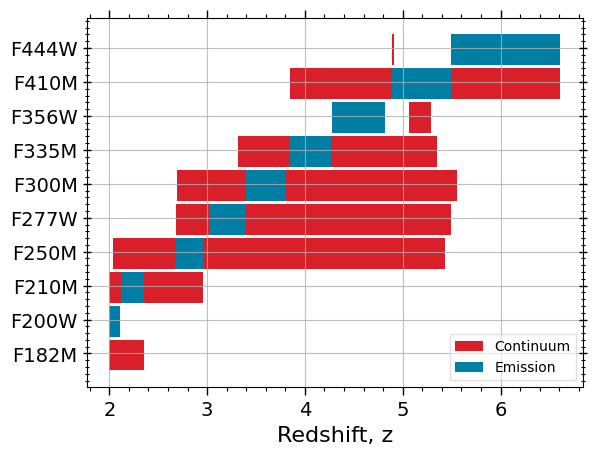
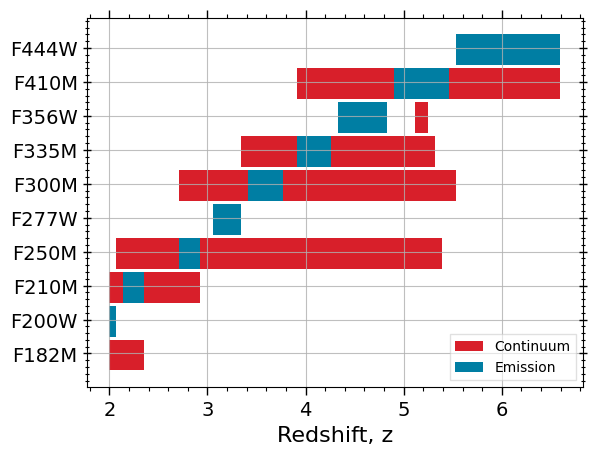
Sped up load_SED_rest_properties and get_depth_dirs to make once and then load rather than remaking every call

diff --git a/galfind/Data.py b/galfind/Data.py
@@ -492,11 +492,9 @@ class Data:
         except:
             pass
         try:
-            ##breakpoint()
             depths = []
             for aper_diam in json.loads(config.get("SExtractor", "APERTURE_DIAMS")) * u.arcsec:
                 depths.append(self.load_depths(aper_diam))
-            ##breakpoint()
             output_str += f"DEPTHS = {str(depths)}\n"
         except:
             pass
@@ -626,7 +624,7 @@ class Data:
             return wht
 
       
-    def load_rms_err(self, band):
+    def load_rms_err(self, band, output_hdr = False):
         try:
             hdu = fits.open(self.rms_err_paths[band])[self.rms_err_exts[band]]
             rms_err = hdu.data 
@@ -1860,10 +1858,9 @@ class Data:
                 #breakpoint()
                 galfind_logger.info(f"Making local depth columns for {band=}")
                 for j, aper_diam in enumerate(json.loads(config.get("SExtractor", "APERTURE_DIAMS")) * u.arcsec):
-                    #breakpoint()
-                    self.get_depth_dir(aper_diam)
                     #print(band, aper_diam)
-                    h5_path = f"{self.depth_dirs[band]}/{depth_mode}/{band}.h5"
+                    self.load_depth_dirs(aper_diam)
+                    h5_path = f"{self.depth_dirs[aper_diam][band]}/{depth_mode}/{band}.h5"
                     if Path(h5_path).is_file():
                         # open depth .h5
                         hf = h5py.File(h5_path, "r")
@@ -1925,20 +1922,22 @@ class Data:
             # overwrite original catalogue with local depth columns
             cat.write(self.sex_cat_master_path, overwrite = True)
             funcs.change_file_permissions(self.sex_cat_master_path)
-        
-    def get_depth_dir(self, aper_diam):
-        self.depth_dirs = {}
-        for band in self.im_paths.keys():
-            self.depth_dirs[band] = f"{config['Depths']['DEPTH_DIR']}/{self.instrument.instrument_from_band(band).name}/{self.version}/{self.survey}/{format(aper_diam.value, '.2f')}as"
-            funcs.make_dirs(f"{self.depth_dirs[band]}/_")
-        return self.depth_dirs
+    
+    def load_depth_dirs(self, aper_diam):
+        if not hasattr(self, "depth_dirs"):
+            self.depth_dirs = {}
+        if not aper_diam in self.depth_dirs.keys():
+            self.depth_dirs[aper_diam] = {}
+            for band in self.im_paths.keys():
+                self.depth_dirs[aper_diam][band] = f"{config['Depths']['DEPTH_DIR']}/{self.instrument.instrument_from_band(band).name}/{self.version}/{self.survey}/{format(aper_diam.value, '.2f')}as"
+                funcs.make_dirs(f"{self.depth_dirs[aper_diam][band]}/_")
             
     def load_depths(self, aper_diam):
-        self.get_depth_dir(aper_diam)
+        self.load_depth_dirs(aper_diam)
         self.depths = {}
         for band in self.instrument.band_names:
             # load depths from saved .txt file
-            depths = Table.read(f"{self.depth_dirs[band]}/{self.survey}_depths.txt", names = ["band", "depth"], format = "ascii")
+            depths = Table.read(f"{self.depth_dirs[aper_diam][band]}/{self.survey}_depths.txt", names = ["band", "depth"], format = "ascii")
             self.depths[band] = float(depths[depths["band"] == band]["depth"])
         return self.depths
     
@@ -1947,16 +1946,16 @@ class Data:
     
     def calc_depths(self, aper_diams = [0.32] * u.arcsec, cat_creator = None, mode = "n_nearest", scatter_size = 0.1, distance_to_mask = 30, \
             region_radius_used_pix = 300, n_nearest = 200, coord_type = "sky", split_depth_min_size = 100_000, \
-            split_depths_factor = 5, step_size = 100, excl_bands = [], n_jobs = 1, plot = False, n_split = "auto"):
+            split_depths_factor = 5, step_size = 100, excl_bands = [], n_jobs = 1, plot = True, n_split = "auto"):
         params = []
         # Look over all aperture diameters and bands  
         for aper_diam in aper_diams:
             # Generate folder for depths
-            self.get_depth_dir(aper_diam)
+            self.load_depth_dirs(aper_diam)
             for band in self.im_paths.keys():
                 # Only run for non excluded bands
                 if band not in excl_bands:
-                    params.append((band, aper_diam, self.depth_dirs[band], mode, scatter_size, distance_to_mask, region_radius_used_pix, n_nearest, \
+                    params.append((band, aper_diam, self.depth_dirs[aper_diam][band], mode, scatter_size, distance_to_mask, region_radius_used_pix, n_nearest, \
                     coord_type, split_depth_min_size, split_depths_factor, step_size, cat_creator, plot, n_split))
         # Parallelise the calculation of depths for each band
         with tqdm_joblib(tqdm(desc = "Calculating depths", total = len(params))) as progress_bar:
@@ -1974,7 +1973,6 @@ class Data:
             galfind_logger.info("OVERWRITE_DEPTHS = YES, re-doing depths should they exist.")
         grid_depth_path = f"{depth_dir}/{mode}/{band}.h5" # {str(int(n_split))}_region_grid_depths/
         funcs.make_dirs(grid_depth_path)
-        
         if not Path(grid_depth_path).is_file() or overwrite:
             # load the image/segmentation/mask data for the specific band
             im_data, im_header, seg_data, seg_header, mask = self.load_data(band, incl_mask = True)
@@ -2031,18 +2029,18 @@ class Data:
                 hf.create_dataset(name_i, data = data_i)
             hf.close()
 
-            if plot:
-                self.plot_depth(band, cat_creator, mode, aper_diam, show = False)
+        if plot:
+            self.plot_depth(band, cat_creator, mode, aper_diam, show = False)
     
 
     def plot_area_depth(self, cat_creator, mode, aper_diam, show = False, use_area_per_band=True, save = True, return_array=False):     
         if type(cat_creator) == type(None):
             galfind_logger.warning("Could not plot depths as cat_creator == None in Data.plot_area_depth()")
         else:
-            self.get_depth_dir(aper_diam)
+            self.load_depth_dirs(aper_diam)
             area_tab = self.calc_unmasked_area(masking_instrument_or_band_name = self.forced_phot_band, forced_phot_band = self.forced_phot_band)
             overwrite = config["Depths"].getboolean("OVERWRITE_DEPTH_PLOTS")
-            save_path = f"{self.depth_dirs[self.forced_phot_band]}/{mode}/depth_areas.png" # not entirely general -> need to improve self.depth_dirs
+            save_path = f"{self.depth_dirs[aper_diam][self.forced_phot_band]}/{mode}/depth_areas.png" # not entirely general -> need to improve self.depth_dirs
             
             if not Path(save_path).is_file() or overwrite:
                 fig, ax = plt.subplots(1, 1, figsize = (4, 4))
@@ -2067,7 +2065,7 @@ class Data:
                 #colors = plt.cm.viridis(np.linspace(0, 1, len(bands)))
                 data = {}
                 for pos, band in enumerate(bands):
-                    h5_path = f"{self.depth_dirs[band]}/{mode}/{band}.h5"
+                    h5_path = f"{self.depth_dirs[aper_diam][band]}/{mode}/{band}.h5"
 
                     if overwrite:
                         galfind_logger.info("OVERWRITE_DEPTH_PLOTS = YES, re-doing depth plots.")
@@ -2151,15 +2149,15 @@ class Data:
         if type(cat_creator) == type(None):
             galfind_logger.warning("Could not plot depths as cat_creator == None in Data.plot_depth()")
         else:
-            self.get_depth_dir(aper_diam)
-            save_path = f"{self.depth_dirs[band]}/{mode}/{band}_depths.png"
+            self.load_depth_dirs(aper_diam)
+            save_path = f"{self.depth_dirs[aper_diam][band]}/{mode}/{band}_depths.png"
             # determine paths and whether to overwrite
             overwrite = config["Depths"].getboolean("OVERWRITE_DEPTH_PLOTS")
             if overwrite:
                 galfind_logger.info("OVERWRITE_DEPTH_PLOTS = YES, re-doing depth plots.")
             if not Path(save_path).is_file() or overwrite:
                 # load depth data
-                h5_path = f"{self.depth_dirs[band]}/{mode}/{band}.h5"
+                h5_path = f"{self.depth_dirs[aper_diam][band]}/{mode}/{band}.h5"
                 if not Path(h5_path).is_file():
                     raise(Exception(f"Must first run depths for {self.survey} {self.version} {band} {mode} {aper_diam} before plotting!"))
                 hf = h5py.File(h5_path, "r")

diff --git a/NIRCam_pipeline/pipeline.py b/NIRCam_pipeline/pipeline.py
@@ -32,9 +32,9 @@ def pipeline(surveys, version, instruments, aper_diams, min_flux_pc_errs, forced
 
             cat.phot_SNR_crop(0, 2., "non_detect") # 2σ non-detected in first band
             cat.phot_bluewards_Lya_non_detect(2.) # 2σ non-detected in all bands bluewards of Lyα
-            cat.phot_redwards_Lya_detect([5., 5.], widebands_only = True) # 5σ/3σ detected in first/second band redwards of Lyα
+            cat.phot_redwards_Lya_detect([5., 5.], widebands_only = True) # 5σ/5σ detected in first/second band redwards of Lyα
             cat.select_chi_sq_lim(3., reduced = True) # χ^2_red < 3
-            cat.select_chi_sq_diff(9., delta_z_lowz = 0.5) # Δχ^2 > 9 between redshift free and low redshift SED fits, with Δz=0.5 tolerance 
+            cat.select_chi_sq_diff(4., delta_z_lowz = 0.5) # Δχ^2 > 4 between redshift free and low redshift SED fits, with Δz=0.5 tolerance 
             cat.select_robust_zPDF(0.6, 0.1) # 60% of redshift PDF must lie within z ± z * 0.1
             # ensure masked in all instruments
             cat.select_unmasked_instrument(NIRCam()) # unmasked in all NIRCam bands
@@ -43,7 +43,7 @@ def pipeline(surveys, version, instruments, aper_diams, min_flux_pc_errs, forced
                 cat.select_band_flux_radius(band_name, "gtr", 1.5) # LW NIRCam wideband Re>1.5 pix
             
             cat_copy = cat.select_EPOCHS(allow_lowz = False)
-            # #cat_copy.make_cutouts(IDs = crop_by["IDs"])
+            # # #cat_copy.make_cutouts(IDs = crop_by["IDs"])
             cat_copy.plot_phot_diagnostics(flux_unit = u.ABmag)
             print(str(cat_copy))
 
@@ -68,14 +68,14 @@ def pipeline(surveys, version, instruments, aper_diams, min_flux_pc_errs, forced
             # #cat.select_rest_UV_line_emitters_sigma("CIV-1549", 2.)
             
             #cat.del_hdu(SED_fit_params_arr[-1]["code"].label_from_SED_fit_params(SED_fit_params_arr[-1]))
-            # if load_SED_rest_properties:
-            #     iters = 100
-            #     #cat.calc_SFR_UV_phot(frame = "obs", AUV_beta_conv_author_year = "M99", iters = iters)
-            #     #cat.calc_SFR_UV_phot(frame = "obs", AUV_beta_conv_author_year = None, iters = iters)
-            #     #cat.calc_rest_UV_properties(iters = iters)
-            #     #cat.calc_cont_rest_optical(["Halpha"], iters = iters)
-            #     #cat.calc_EW_rest_optical(["Halpha"], frame = "obs", iters = iters)
-            #     cat.calc_xi_ion(iters = iters) #dust_author_year = None
+            if load_SED_rest_properties:
+                iters = 100
+                #cat.calc_SFR_UV_phot(frame = "obs", AUV_beta_conv_author_year = "M99", iters = iters)
+                #cat.calc_SFR_UV_phot(frame = "obs", AUV_beta_conv_author_year = None, iters = iters)
+                #cat.calc_rest_UV_properties(iters = iters)
+                #cat.calc_cont_rest_optical(["Halpha"], iters = iters)
+                #cat.calc_EW_rest_optical(["Halpha"], frame = "obs", iters = iters)
+                cat_copy.calc_xi_ion(iters = iters) #dust_author_year = None
 
 
 def make_EAZY_SED_fit_params_arr(SED_code_arr, templates_arr, lowz_zmax_arr):

diff --git a/examples/reionization_paper/xi_ion_bias.py b/examples/reionization_paper/xi_ion_bias.py
@@ -76,15 +76,16 @@ def plot_band_z_coverage(phot_rest_arr):
     plot_bands = []
     j = 0
     for i, band in enumerate(phot_rest_arr[0].instrument.band_names):
-        _cont_band_z_coverage_dict = np.array([z for i, z in enumerate(z_arr) if band in cont_bands_arr[i]])
-        if len(_cont_band_z_coverage_dict) > 1:
-            z_coverage = []
-            ax.broken_barh([(np.min(_cont_band_z_coverage_dict), np.max(_cont_band_z_coverage_dict) - np.min(_cont_band_z_coverage_dict))], (10 * (j + 1), 9), \
+        _cont_band_z_coverage = np.array([z for i, z in enumerate(z_arr) if band in cont_bands_arr[i]])
+        if len(_cont_band_z_coverage) > 1:
+            calc_z_coverage(_cont_band_z_coverage, z_arr)
+            ax.broken_barh([(np.min(_cont_band_z_coverage), np.max(_cont_band_z_coverage) - np.min(_cont_band_z_coverage))], (10 * (j + 1), 9), \
                         facecolors = colours[0], label = "Continuum" if not plotted_cont else None)
             plotted_cont = True
-        _em_band_z_coverage_dict = np.array([z for i, z in enumerate(z_arr) if band in em_bands_arr[i]])
-        if len(_em_band_z_coverage_dict) > 1:
-            ax.broken_barh([(np.min(_em_band_z_coverage_dict), np.max(_em_band_z_coverage_dict) - np.min(_em_band_z_coverage_dict))], (10 * (j + 1), 9), \
+        _em_band_z_coverage = np.array([z for i, z in enumerate(z_arr) if band in em_bands_arr[i]])
+        if len(_em_band_z_coverage) > 1:
+            calc_z_coverage(_em_band_z_coverage, z_arr)
+            ax.broken_barh([(np.min(_em_band_z_coverage), np.max(_em_band_z_coverage) - np.min(_em_band_z_coverage))], (10 * (j + 1), 9), \
                         facecolors = colours[1], label = "Emission" if not plotted_em else None)
             plotted_em = True
         if plotted_cont or plotted_em:
@@ -96,9 +97,15 @@ def plot_band_z_coverage(phot_rest_arr):
     plt.savefig("band_coverage_plot.png")
 
 def calc_z_coverage(z, orig_z_arr):
+    breakpoint()
     # find all instances of orig_z_arr that are not in z
-    np.searchsorted(z, orig_z_arr)
-    z_coverage = [(np.min(z), )]
+    matching_indices = np.searchsorted(orig_z_arr, z)
+    #non_matching_indices = np.array([i for i in range(len(orig_z_arr)) if i not in matching_indices])
+    missing_indices_from_z = sorted(set(range(0, len(z))).difference(matching_indices))
+    z_coverage = []
+    for index in missing_indices_from_z:
+        pass
+    #z_coverage = [(np.min(z), )]
 
 def main():
     z_arr = np.linspace(2., 9., 100)

diff --git a/galfind/Catalogue.py b/galfind/Catalogue.py
@@ -514,7 +514,6 @@ class Catalogue(Catalogue_Base):
         return cat_copy
 
     def _append_selection_to_fits(self, selection_name):
-        ##breakpoint()
         # append .fits table if not already done so for this selection
         if not selection_name in self.selection_cols:
             assert(all(getattr(self, selection_name) == True))
@@ -741,11 +740,13 @@ class Catalogue(Catalogue_Base):
     def load_SED_rest_properties(self, SED_fit_params = {"code": EAZY(), "templates": "fsps_larson", "lowz_zmax": None}, timed = True):
         key = SED_fit_params["code"].label_from_SED_fit_params(SED_fit_params)
         PDF_dir = f"{config['PhotProperties']['PDF_SAVE_DIR']}/{self.version}/{self.instrument.name}/{self.survey}/{key}"
-        property_names = [property_PDFs_path.split("/")[-1] for property_PDFs_path in glob.glob(f"{PDF_dir}/*")]
-        self.gals = [deepcopy(gal)._load_SED_rest_properties(PDF_dir, property_names, key) \
-            for gal in tqdm(deepcopy(self), desc = f"Loading SED rest properties for {key}", total = len(self))]
-        for name in property_names:
-            self._append_SED_rest_property_to_fits(name, key)
+        property_paths = glob.glob(f"{PDF_dir}/*")
+        if len(property_paths) != 0:
+            property_names = [property_path.split("/")[-1] for property_path in property_paths]
+            self.gals = [deepcopy(gal)._load_SED_rest_properties(PDF_dir, property_names, key) \
+                for gal in tqdm(deepcopy(self), desc = f"Loading SED rest properties for {key}", total = len(self))]
+            for name in property_names:
+                self._append_SED_rest_property_to_fits(name, key)
 
     def del_SED_rest_property(self, property_name, SED_fit_params = {"code": EAZY(), "templates": "fsps_larson", "lowz_zmax": None}):
         key = SED_fit_params["code"].label_from_SED_fit_params(SED_fit_params)
